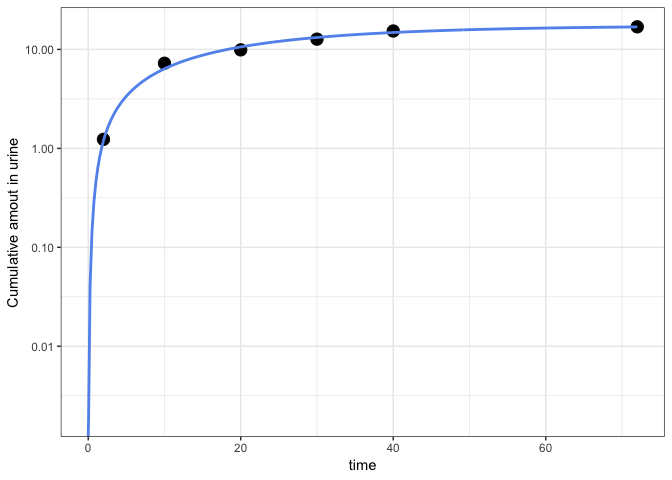
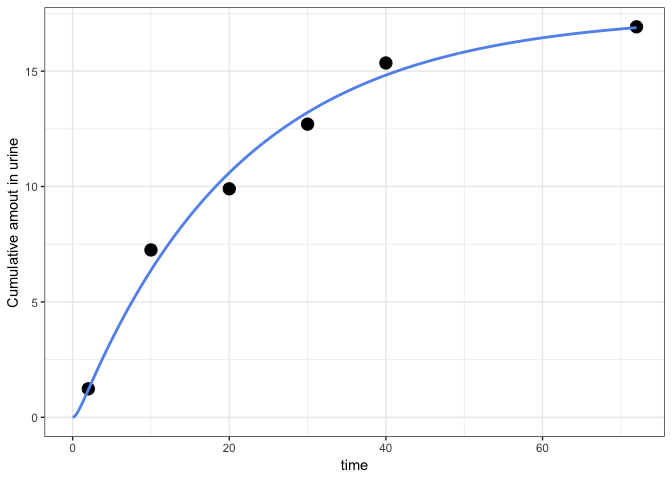
take figure off of log scale

diff --git a/application/two_endpoints.md b/application/two_endpoints.md
@@ -403,10 +403,10 @@ as.numeric(param(mod))
     .   0.97  22.30   1.90   0.20   0.00
 
 ``` r
-fit$par
+exp(fit$par)
 ```
 
-    . [1] -0.08714504  3.14065098  0.63440921 -1.64124772
+    . [1]  0.9165441 23.1189119  1.8859076  0.1937382
 
 And plot
 
@@ -425,7 +425,7 @@ ggplot() +
 ggplot() + 
   geom_point(data= data[iur,], aes(time,DV), size = 4) + 
   geom_line(data=prd, aes(time,UR),col="cornflowerblue", lwd=1) +
-  scale_y_log10() + ylab("Cumulative amout in urine")
+  ylab("Cumulative amout in urine")
 ```
 
 ![](two_endpoints_files/figure-gfm/unnamed-chunk-26-2.png)<!-- -->
